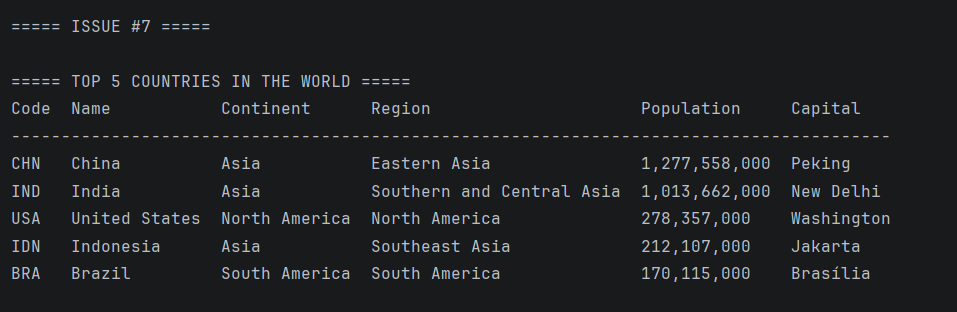
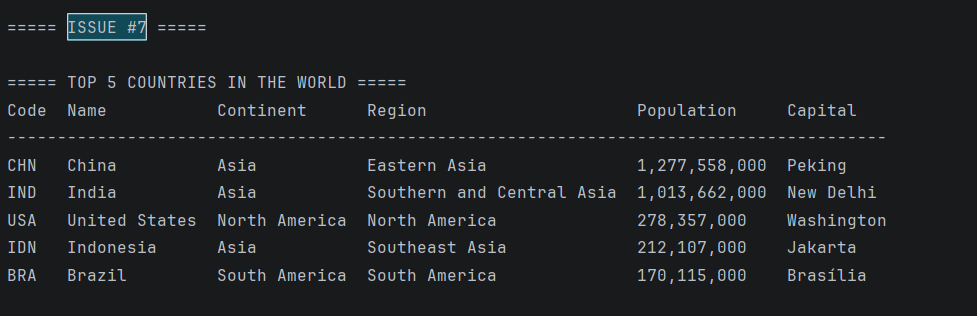
docs: update README and add issue evidence screenshots

diff --git a/README.md b/README.md
@@ -5,245 +5,214 @@
 * License [![LICENSE](https://img.shields.io/github/license/kaungmyatlwin18/Group_11-DevOps.svg?style=flat-square)](https://github.com/kaungmyatlwin18/Group_11-DevOps/blob/master/LICENSE)
 * Release [![Releases](https://img.shields.io/github/release/kaungmyatlwin18/Group_11-DevOps/all.svg?style=flat-square)](https://github.com/kaungmyatlwin18/Group_11-DevOps/releases)
 
+* Unit Testing [![Unit Testing](https://github.com/kaungmyatlwin18/Group_11-DevOps/actions/workflows/unit-tests.yml/badge.svg?branch=develop)](https://github.com/kaungmyatlwin18/Group_11-DevOps/actions/workflows/unit-tests.yml)
+* Integration Testing [![Integration Testing](https://github.com/kaungmyatlwin18/Group_11-DevOps/actions/workflows/integration-tests.yml/badge.svg?branch=develop)](https://github.com/kaungmyatlwin18/Group_11-DevOps/actions/workflows/integration-tests.yml)
+* Code Coverage Workflow [![Code Coverage Workflow](https://github.com/kaungmyatlwin18/Group_11-DevOps/actions/workflows/code-coverage.yml/badge.svg?branch=develop)](https://github.com/kaungmyatlwin18/Group_11-DevOps/actions/workflows/code-coverage.yml)
+
 # Group 11 — DevOps Project Report
 
-**Module:** SET09803 DevOps  
-**Project:** Population Reporting System  
-**Code Review:** 1  
-**Date:** 14 October 2026
+**Module:** SET09803 DevOps
+**Project:** Population Reporting System
+**Code Review:** 2
+**Evidence snapshot:** 25 November 2026 (`develop`, `64d6faf`)
 
 ## 1. Team Members
 
-| Role          | Member          |
-| ------------- | --------------- |
-| Product Owner | Hein Htoo Naing|
-| Scrum Master  | Kaung Myat Lwin |
-| Developer 1   | Htoo Aung Lin   |
-| Developer 2   | Nyan Lin Htet   |
-| Developer 3   | Dana Aung       |
-| Developer 4   | Thet Aung Hein  |
+| Role | Member |
+|---|---|
+| Product Owner | Hein Htoo Naing |
+| Scrum Master | Kaung Myat Lwin |
+| Developer 1 | Htoo Aung Lin |
+| Developer 2 | Nyan Lin Htet |
+| Developer 3 | Dana Aung |
+| Developer 4 | Thet Aung Hein |
 
 ## 2. Technologies Used
 
-| Technology        | Version / Details               | Purpose                                               |
-| ----------------- | ------------------------------- | ----------------------------------------------------- |
-| Java              | JDK 25 (Eclipse Temurin)        | Application development                               |
-| Apache Maven      | Version to confirm              | Building the Java application and running tests       |
-| MySQL             | 8.4                             | World population database                             |
-| MySQL Connector/J | JDBC driver                     | Connecting Java to MySQL                              |
-| Docker            | Docker Desktop / Docker Compose | Running and configuring containers                    |
-| Git               | Version control                 | Managing source code changes                          |
-| GitHub            | Repository hosting              | Issues, branches, pull requests and collaboration     |
-| GitHub Actions    | CI workflow                     | Automated Maven builds, tests and Docker verification |
-| JUnit             | Version to confirm              | Automated testing                                     |
-| IntelliJ IDEA     | 2026.2.2                        | Java development and debugging                        |
+| Technology | Version / Details | Purpose |
+|---|---|---|
+| Java | JDK 25 (Eclipse Temurin) | Application development |
+| Apache Maven | Maven 3.x | Build and test automation |
+| MySQL | 8.4 | World population database |
+| MySQL Connector/J | 26.7.0 | JDBC connectivity |
+| Docker | Docker Desktop / Docker Compose | Containerised application and database |
+| JUnit Jupiter | 5.11.4 | Automated tests |
+| H2 | 2.3.232 | In-memory test database |
+| JaCoCo | 0.8.16 | Code coverage |
+| Git and GitHub | Version control and repository hosting | Issues, branches, pull requests and collaboration |
+| GitHub Actions | CI workflows | Builds, tests, coverage and container verification |
+| IntelliJ IDEA | Java IDE | Development and debugging |
 
 ## 3. Use Case Diagram
 
-<img width="548" height="632" alt="use-case-diagram" src="https://github.com/user-attachments/assets/2a540d11-d768-481a-bdfb-a5fedcde233a" />
+![Project use-case overview](docs/use-case-diagram.png)
 
+The console-based Population Reporting System generates reports using the MySQL World database. Reports cover countries, cities, capitals, population distribution, selected population totals and language statistics. Configurable location and Top N parameters support the relevant reports.
 
-The use case diagram illustrates how a user interacts with the Population Reporting System to generate reports from the MySQL World database.
-
-The system supports reporting on countries, cities, capital cities, populations and language statistics.
-
-Users can select relevant locations, such as continents and regions, and request reports ordered by population. Some reports allow the user to specify a Top N value.
-
-For Code Review 1, our team implemented and verified the first six country reporting requirements.
+The existing overview diagram and [Sprint 1 detailed use cases](docs/use-case-diagram.md) are retained. The detailed use cases cover the six original country reports; their extension to the remaining features is subject to the team's documentation review.
 
 ## 4. Results and Outcomes
 
-### Implementation Progress
+**32 of 32 functional requirements implemented (100%).** All feature issues are closed and their implementation PRs have been merged into `develop` as of the evidence snapshot. This is the development-branch status, not a new production release.
 
-**6 of 32 requirements completed (18.75%).**
+| Category | Implemented | Total |
+|---|---:|---:|
+| Country Reports | 6 | 6 |
+| City Reports | 10 | 10 |
+| Capital City Reports | 6 | 6 |
+| Population Distribution Reports | 3 | 3 |
+| Population Information | 6 | 6 |
+| Language Statistics | 1 | 1 |
+| **Total** | **32** | **32** |
 
-The six completed requirements cover country reporting features. The remaining 26 requirements are planned for future development.
+Each row links to its issue, merged PR and actual console screenshot. Long report screenshots show representative visible rows rather than every result. Figures are from the supplied World database, not current demographic estimates. District totals represent recorded city populations in the selected district.
 
 ### 4.1 Country Reports
 
-| ID | Requirement                                | GitHub Issue | Met? | Output Screenshot |
-| -- | ------------------------------------------ | ------------ | ---- | ----------------- |
-| 1  | All countries in the world by population   | #2           | Yes  | <img width="1448" height="796" alt="issue-02" src="https://github.com/user-attachments/assets/11a26ef7-d82f-4a62-bca7-fddb589a4aae" />|
-| 2  | All countries in a continent by population | #4           | Yes  | <img width="1096" height="760" alt="issue-04" src="https://github.com/user-attachments/assets/1441f53c-38d0-45b9-94e5-82bc24bd64fe" />|
-| 3  | All countries in a region by population    | #6           | Yes  | <img width="787" height="390" alt="issue-06" src="https://github.com/user-attachments/assets/b6bc45e4-cf2e-40e3-a337-5b69f744d03f" /> |
-| 4  | Top N countries in the world               | #7           | Yes  | <img width="957" height="312" alt="issue-07" src="https://github.com/user-attachments/assets/626f8943-ccb4-47bc-95d5-aa35c032373a" /> |
-| 5  | Top N countries in a continent             | #8           | Yes  | <img width="896" height="247" alt="issue-08" src="https://github.com/user-attachments/assets/46d843d6-6d04-4711-be33-91599c4f07fe" /> |
-| 6  | Top N countries in a region                | #9           | Yes  | <img width="847" height="255" alt="issue-09" src="https://github.com/user-attachments/assets/943daaff-1338-4144-a597-ad8fcf9350c1" /> |
+| ID | Requirement | GitHub Issue | Pull Request | Met? | Output Screenshot |
+|---:|---|---|---|---|---|
+| 1 | All countries in the world by population | [#2](https://github.com/kaungmyatlwin18/Group_11-DevOps/issues/2) | [#37](https://github.com/kaungmyatlwin18/Group_11-DevOps/pull/37) | Yes | [<img src="docs/screenshots/issue-02.png" width="320" alt="Issue 2 output" />](docs/screenshots/issue-02.png) |
+| 2 | All countries in a continent by population | [#4](https://github.com/kaungmyatlwin18/Group_11-DevOps/issues/4) | [#37](https://github.com/kaungmyatlwin18/Group_11-DevOps/pull/37) | Yes | [<img src="docs/screenshots/issue-04.png" width="320" alt="Issue 4 output" />](docs/screenshots/issue-04.png) |
+| 3 | All countries in a region by population | [#6](https://github.com/kaungmyatlwin18/Group_11-DevOps/issues/6) | [#38](https://github.com/kaungmyatlwin18/Group_11-DevOps/pull/38) | Yes | [<img src="docs/screenshots/issue-06.png" width="320" alt="Issue 6 output" />](docs/screenshots/issue-06.png) |
+| 4 | Top N countries in the world | [#7](https://github.com/kaungmyatlwin18/Group_11-DevOps/issues/7) | [#41](https://github.com/kaungmyatlwin18/Group_11-DevOps/pull/41) | Yes | [<img src="docs/screenshots/issue-07.png" width="320" alt="Issue 7 output" />](docs/screenshots/issue-07.png) |
+| 5 | Top N countries in a continent | [#8](https://github.com/kaungmyatlwin18/Group_11-DevOps/issues/8) | [#40](https://github.com/kaungmyatlwin18/Group_11-DevOps/pull/40) | Yes | [<img src="docs/screenshots/issue-08.png" width="320" alt="Issue 8 output" />](docs/screenshots/issue-08.png) |
+| 6 | Top N countries in a region | [#9](https://github.com/kaungmyatlwin18/Group_11-DevOps/issues/9) | [#40](https://github.com/kaungmyatlwin18/Group_11-DevOps/pull/40) | Yes | [<img src="docs/screenshots/issue-09.png" width="320" alt="Issue 9 output" />](docs/screenshots/issue-09.png) |
 
 ### 4.2 City Reports
 
-| ID | Requirement                             | Met? | Output Screenshot |
-| -- | --------------------------------------- | ---- | ----------------- |
-| 7  | All cities in the world by population   | No   | —                 |
-| 8  | All cities in a continent by population | No   | —                 |
-| 9  | All cities in a region by population    | No   | —                 |
-| 10 | All cities in a country by population   | No   | —                 |
-| 11 | All cities in a district by population  | No   | —                 |
-| 12 | Top N cities in the world               | No   | —                 |
-| 13 | Top N cities in a continent             | No   | —                 |
-| 14 | Top N cities in a region                | No   | —                 |
-| 15 | Top N cities in a country               | No   | —                 |
-| 16 | Top N cities in a district              | No   | —                 |
+| ID | Requirement | GitHub Issue | Pull Request | Met? | Output Screenshot |
+|---:|---|---|---|---|---|
+| 7 | All cities in the world by population | [#10](https://github.com/kaungmyatlwin18/Group_11-DevOps/issues/10) | [#62](https://github.com/kaungmyatlwin18/Group_11-DevOps/pull/62) | Yes | [<img src="docs/screenshots/issue-10.png" width="320" alt="Issue 10 output" />](docs/screenshots/issue-10.png) |
+| 8 | All cities in a continent by population | [#11](https://github.com/kaungmyatlwin18/Group_11-DevOps/issues/11) | [#63](https://github.com/kaungmyatlwin18/Group_11-DevOps/pull/63) | Yes | [<img src="docs/screenshots/issue-11.png" width="320" alt="Issue 11 output" />](docs/screenshots/issue-11.png) |
+| 9 | All cities in a region by population | [#12](https://github.com/kaungmyatlwin18/Group_11-DevOps/issues/12) | [#59](https://github.com/kaungmyatlwin18/Group_11-DevOps/pull/59) | Yes | [<img src="docs/screenshots/issue-12.png" width="320" alt="Issue 12 output" />](docs/screenshots/issue-12.png) |
+| 10 | All cities in a country by population | [#13](https://github.com/kaungmyatlwin18/Group_11-DevOps/issues/13) | [#60](https://github.com/kaungmyatlwin18/Group_11-DevOps/pull/60) | Yes | [<img src="docs/screenshots/issue-13.png" width="320" alt="Issue 13 output" />](docs/screenshots/issue-13.png) |
+| 11 | All cities in a district by population | [#14](https://github.com/kaungmyatlwin18/Group_11-DevOps/issues/14) | [#58](https://github.com/kaungmyatlwin18/Group_11-DevOps/pull/58) | Yes | [<img src="docs/screenshots/issue-14.png" width="320" alt="Issue 14 output" />](docs/screenshots/issue-14.png) |
+| 12 | Top N cities in the world | [#15](https://github.com/kaungmyatlwin18/Group_11-DevOps/issues/15) | [#64](https://github.com/kaungmyatlwin18/Group_11-DevOps/pull/64) | Yes | [<img src="docs/screenshots/issue-15.png" width="320" alt="Issue 15 output" />](docs/screenshots/issue-15.png) |
+| 13 | Top N cities in a continent | [#16](https://github.com/kaungmyatlwin18/Group_11-DevOps/issues/16) | [#65](https://github.com/kaungmyatlwin18/Group_11-DevOps/pull/65) | Yes | [<img src="docs/screenshots/issue-16.png" width="320" alt="Issue 16 output" />](docs/screenshots/issue-16.png) |
+| 14 | Top N cities in a region | [#17](https://github.com/kaungmyatlwin18/Group_11-DevOps/issues/17) | [#66](https://github.com/kaungmyatlwin18/Group_11-DevOps/pull/66) | Yes | [<img src="docs/screenshots/issue-17.png" width="320" alt="Issue 17 output" />](docs/screenshots/issue-17.png) |
+| 15 | Top N cities in a country | [#18](https://github.com/kaungmyatlwin18/Group_11-DevOps/issues/18) | [#67](https://github.com/kaungmyatlwin18/Group_11-DevOps/pull/67) | Yes | [<img src="docs/screenshots/issue-18.png" width="320" alt="Issue 18 output" />](docs/screenshots/issue-18.png) |
+| 16 | Top N cities in a district | [#19](https://github.com/kaungmyatlwin18/Group_11-DevOps/issues/19) | [#68](https://github.com/kaungmyatlwin18/Group_11-DevOps/pull/68) | Yes | [<img src="docs/screenshots/issue-19.png" width="320" alt="Issue 19 output" />](docs/screenshots/issue-19.png) |
 
 ### 4.3 Capital City Reports
 
-| ID | Requirement                         | Met? | Output Screenshot |
-| -- | ----------------------------------- | ---- | ----------------- |
-| 17 | All capital cities in the world     | No   | —                 |
-| 18 | All capital cities in a continent   | No   | —                 |
-| 19 | All capital cities in a region      | No   | —                 |
-| 20 | Top N capital cities in the world   | No   | —                 |
-| 21 | Top N capital cities in a continent | No   | —                 |
-| 22 | Top N capital cities in a region    | No   | —                 |
+| ID | Requirement | GitHub Issue | Pull Request | Met? | Output Screenshot |
+|---:|---|---|---|---|---|
+| 17 | All capital cities in the world by population | [#20](https://github.com/kaungmyatlwin18/Group_11-DevOps/issues/20) | [#69](https://github.com/kaungmyatlwin18/Group_11-DevOps/pull/69) | Yes | [<img src="docs/screenshots/issue-20.png" width="320" alt="Issue 20 output" />](docs/screenshots/issue-20.png) |
+| 18 | All capital cities in a continent by population | [#21](https://github.com/kaungmyatlwin18/Group_11-DevOps/issues/21) | [#70](https://github.com/kaungmyatlwin18/Group_11-DevOps/pull/70) | Yes | [<img src="docs/screenshots/issue-21.png" width="320" alt="Issue 21 output" />](docs/screenshots/issue-21.png) |
+| 19 | All capital cities in a region by population | [#22](https://github.com/kaungmyatlwin18/Group_11-DevOps/issues/22) | [#71](https://github.com/kaungmyatlwin18/Group_11-DevOps/pull/71) | Yes | [<img src="docs/screenshots/issue-22.png" width="320" alt="Issue 22 output" />](docs/screenshots/issue-22.png) |
+| 20 | Top N capital cities in the world | [#23](https://github.com/kaungmyatlwin18/Group_11-DevOps/issues/23) | [#72](https://github.com/kaungmyatlwin18/Group_11-DevOps/pull/72) | Yes | [<img src="docs/screenshots/issue-23.png" width="320" alt="Issue 23 output" />](docs/screenshots/issue-23.png) |
+| 21 | Top N capital cities in a continent | [#24](https://github.com/kaungmyatlwin18/Group_11-DevOps/issues/24) | [#82](https://github.com/kaungmyatlwin18/Group_11-DevOps/pull/82) | Yes | [<img src="docs/screenshots/issue-24.png" width="320" alt="Issue 24 output" />](docs/screenshots/issue-24.png) |
+| 22 | Top N capital cities in a region | [#25](https://github.com/kaungmyatlwin18/Group_11-DevOps/issues/25) | [#83](https://github.com/kaungmyatlwin18/Group_11-DevOps/pull/83) | Yes | [<img src="docs/screenshots/issue-25.png" width="320" alt="Issue 25 output" />](docs/screenshots/issue-25.png) |
 
 ### 4.4 Population Distribution Reports
 
-| ID | Requirement                                                   | Met? | Output Screenshot |
-| -- | ------------------------------------------------------------- | ---- | ----------------- |
-| 23 | Population living and not living in cities for each continent | No   | —                 |
-| 24 | Population living and not living in cities for each region    | No   | —                 |
-| 25 | Population living and not living in cities for each country   | No   | —                 |
+| ID | Requirement | GitHub Issue | Pull Request | Met? | Output Screenshot |
+|---:|---|---|---|---|---|
+| 23 | Population living and not living in cities for each continent, including percentages | [#26](https://github.com/kaungmyatlwin18/Group_11-DevOps/issues/26) | [#73](https://github.com/kaungmyatlwin18/Group_11-DevOps/pull/73) | Yes | [<img src="docs/screenshots/issue-26.png" width="320" alt="Issue 26 output" />](docs/screenshots/issue-26.png) |
+| 24 | Population living and not living in cities for each region, including percentages | [#27](https://github.com/kaungmyatlwin18/Group_11-DevOps/issues/27) | [#74](https://github.com/kaungmyatlwin18/Group_11-DevOps/pull/74) | Yes | [<img src="docs/screenshots/issue-27.png" width="320" alt="Issue 27 output" />](docs/screenshots/issue-27.png) |
+| 25 | Population living and not living in cities for each country, including percentages | [#28](https://github.com/kaungmyatlwin18/Group_11-DevOps/issues/28) | [#75](https://github.com/kaungmyatlwin18/Group_11-DevOps/pull/75) | Yes | [<img src="docs/screenshots/issue-28.png" width="320" alt="Issue 28 output" />](docs/screenshots/issue-28.png) |
 
 ### 4.5 Population Information
 
-| ID | Requirement               | Met? | Output Screenshot |
-| -- | ------------------------- | ---- | ----------------- |
-| 26 | Population of the world   | No   | —                 |
-| 27 | Population of a continent | No   | —                 |
-| 28 | Population of a region    | No   | —                 |
-| 29 | Population of a country   | No   | —                 |
-| 30 | Population of a district  | No   | —                 |
-| 31 | Population of a city      | No   | —                 |
+| ID | Requirement | GitHub Issue | Pull Request | Met? | Output Screenshot |
+|---:|---|---|---|---|---|
+| 26 | Population of the world | [#29](https://github.com/kaungmyatlwin18/Group_11-DevOps/issues/29) | [#88](https://github.com/kaungmyatlwin18/Group_11-DevOps/pull/88) | Yes | [<img src="docs/screenshots/issue-29.png" width="320" alt="Issue 29 output" />](docs/screenshots/issue-29.png) |
+| 27 | Population of a selected continent | [#30](https://github.com/kaungmyatlwin18/Group_11-DevOps/issues/30) | [#89](https://github.com/kaungmyatlwin18/Group_11-DevOps/pull/89) | Yes | [<img src="docs/screenshots/issue-30.png" width="320" alt="Issue 30 output" />](docs/screenshots/issue-30.png) |
+| 28 | Population of a selected region | [#31](https://github.com/kaungmyatlwin18/Group_11-DevOps/issues/31) | [#90](https://github.com/kaungmyatlwin18/Group_11-DevOps/pull/90) | Yes | [<img src="docs/screenshots/issue-31.png" width="320" alt="Issue 31 output" />](docs/screenshots/issue-31.png) |
+| 29 | Population of a selected country | [#32](https://github.com/kaungmyatlwin18/Group_11-DevOps/issues/32) | [#91](https://github.com/kaungmyatlwin18/Group_11-DevOps/pull/91) | Yes | [<img src="docs/screenshots/issue-32.png" width="320" alt="Issue 32 output" />](docs/screenshots/issue-32.png) |
+| 30 | Population of a selected district | [#33](https://github.com/kaungmyatlwin18/Group_11-DevOps/issues/33) | [#86](https://github.com/kaungmyatlwin18/Group_11-DevOps/pull/86) | Yes | [<img src="docs/screenshots/issue-33.png" width="320" alt="Issue 33 output" />](docs/screenshots/issue-33.png) |
+| 31 | Population of a selected city | [#34](https://github.com/kaungmyatlwin18/Group_11-DevOps/issues/34) | [#84](https://github.com/kaungmyatlwin18/Group_11-DevOps/pull/84) | Yes | [<img src="docs/screenshots/issue-34.png" width="320" alt="Issue 34 output" />](docs/screenshots/issue-34.png) |
 
 ### 4.6 Language Statistics
 
-| ID | Requirement                                                                            | Met? | Output Screenshot |
-| -- | -------------------------------------------------------------------------------------- | ---- | ----------------- |
-| 32 | Population speaking Chinese, English, Hindi, Spanish and Arabic, including percentages | No   | —                 |
+| ID | Requirement | GitHub Issue | Pull Request | Met? | Output Screenshot |
+|---:|---|---|---|---|---|
+| 32 | Population speaking Chinese, English, Hindi, Spanish and Arabic, including percentages of world population; sorted by number of speakers | [#35](https://github.com/kaungmyatlwin18/Group_11-DevOps/issues/35) | [#85](https://github.com/kaungmyatlwin18/Group_11-DevOps/pull/85) | Yes | [<img src="docs/screenshots/issue-35.png" width="320" alt="Issue 35 output" />](docs/screenshots/issue-35.png) |
 
 ## 5. Completed Feature Evidence
 
-### Requirement 1 — All Countries in the World
+The screenshots in Section 4 demonstrate all 32 report outputs. Issues #2, #4 and #6 retain their Code Review 1 screenshots; Issues #7–#35 use the refreshed screenshots supplied for Code Review 2. Full-size evidence is available in [docs/screenshots](docs/screenshots/).
 
-This report displays all countries from the World database in descending order of population. It includes the country code, name, continent, region, population and capital.
-
-**[Insert Issue #2 output screenshot]**
-
-### Requirement 2 — Countries in a Continent
-
-This report displays the countries in a selected continent, such as Asia, ordered from the largest population to the smallest.
-
-**[Insert Issue #4 output screenshot]**
-
-### Requirement 3 — Countries in a Region
-
-This report displays all countries in a selected region, such as Eastern Asia, sorted by population.
-
-**[Insert Issue #6 output screenshot]**
-
-### Requirement 4 — Top N Countries in the World
-
-This report allows a configurable N value and displays the N most populated countries in the world. For testing, the system was configured to display the Top 5 countries.
-
-**[Insert Issue #7 output screenshot]**
-
-### Requirement 5 — Top N Countries in a Continent
-
-This report displays the N most populated countries in a selected continent. The current demonstration shows the Top 3 countries in Asia.
-
-**[Insert Issue #8 output screenshot]**
-
-### Requirement 6 — Top N Countries in a Region
-
-This report displays the N most populated countries in a selected region. The current demonstration shows the Top 3 countries in Eastern Asia.
-
-**[Insert Issue #9 output screenshot]**
+Since Code Review 1, the team has added the city and capital reports, population distribution reports, individual population information and language statistics. Supporting work includes automated unit and integration testing, JaCoCo coverage and a bug reporting system. Changes are traceable through the linked feature PRs.
 
 ## 6. Testing and Outcome
 
-For Code Review 1, Group 11 successfully implemented six country reporting requirements.
+Verification snapshot: `64d6faf` on `develop`, 25 November 2026.
 
-The integrated application connected to the MySQL World database and generated the required report outputs.
+| Workflow | Total tests | Passed | Failures | Errors | Skipped | Status |
+|---|---:|---:|---:|---:|---:|---|
+| Unit and H2-backed tests | 433 | 430 | 0 | 0 | 3 | Passed |
+| Full suite with MySQL integration | 433 | 433 | 0 | 0 | 0 | Passed |
+| JaCoCo coverage | 433 | 430 | 0 | 0 | 3 | Passed |
+| Maven and Docker CI | — | — | — | — | — | Passed |
 
-Verification included:
+The three MySQL integration tests are intentionally skipped when database credentials are unset. The separate MySQL integration workflow executes all three successfully. These suites overlap; the test counts must not be added together. The local Maven test run completed with `BUILD SUCCESS` in 7.890 seconds. The final four features added 64 passing tests.
 
-- Successful Maven build.
-- 21 passing JUnit tests.
-- Successful GitHub Actions checks.
-- Successful execution of all six reports.
-- Application finished with exit code 0.
+| GitHub Actions evidence | Result |
+|---|---|
+| [Unit Testing](https://github.com/kaungmyatlwin18/Group_11-DevOps/actions/runs/45585708452) | Success |
+| [MySQL Integration Testing](https://github.com/kaungmyatlwin18/Group_11-DevOps/actions/runs/45585707971) | Success |
+| [Code Coverage](https://github.com/kaungmyatlwin18/Group_11-DevOps/actions/runs/45585707900) | Success |
+| [Maven and Docker CI](https://github.com/kaungmyatlwin18/Group_11-DevOps/actions/runs/45585707758) | Success |
 
-The remaining requirements will be implemented during subsequent development work.
+Supporting PRs: [integration testing](https://github.com/kaungmyatlwin18/Group_11-DevOps/pull/61), [unit testing #78](https://github.com/kaungmyatlwin18/Group_11-DevOps/pull/78), [coverage #79](https://github.com/kaungmyatlwin18/Group_11-DevOps/pull/79) and [coverage action maintenance #87](https://github.com/kaungmyatlwin18/Group_11-DevOps/pull/87).
 
-## 7. Conclusion
-
-Group 11 has established the initial DevOps development workflow and implemented six of the 32 population reporting requirements.
-
-The completed features demonstrate successful database integration, population-based sorting, configurable Top N reporting, and automated testing.
-
-Further development will focus on completing the remaining city, capital city, population and language reporting requirements.
-
-## 8. Individual Contribution Percentages
-| Matric            | Code Review 1                   | Code Review 2                                         |
-| ----------------- | ------------------------------- | ----------------------------------------------------- |
-| 40841053          | 17                              | -                                                     |
-| 40841054          | 17                              | -                                                     |
-| 40841060          | 17                              | -                                                     |
-| 40841062          | 17                              | -                                                     |
-| 40841068          | 15                              | -                                                     |
-| 40840490          | 17                              | -                                                     |
-| Total             | 100                             | -                                                     |
-
-## 9. Automated Test Coverage (JaCoCo)
-
-JaCoCo measures the Java production code exercised by the automated tests. The
-coverage baseline is based on features implemented at the time of each run.
-No application-class exclusions or minimum coverage percentage are configured.
-
-### Generate the report locally (Windows PowerShell)
-
-From the repository root, with JDK 25 and Maven installed:
+Run unit and H2-backed tests from the repository root in Windows PowerShell:
 
 ```powershell
 Remove-Item Env:DB_PASSWORD -ErrorAction SilentlyContinue
-mvn clean verify
+mvn -B clean test
 ```
 
-The command runs the JUnit suite, including H2 in-memory report tests, and
-creates the coverage report during Maven's `verify` phase. With `DB_PASSWORD`
-unset, the three real MySQL integration tests are skipped; those tests run
-separately in the existing Group 11 Integration Testing workflow. MySQL and
-Docker are not required for this coverage run.
+The Maven/Docker CI workflow verifies application build and execution with Docker Compose. The JaCoCo workflow's action versions were upgraded through PR #87; this does not claim that deprecation warnings in other workflows were removed.
 
-Open the HTML report:
+## 7. Conclusion
+
+All 32 functional requirements are implemented and merged into `develop`. All four CI workflows passed at the verified snapshot. The test suite has zero failures and zero errors; the full integration run passed all 433 tests. The final coverage figures and screenshots are recorded below. The final release and Code Review 2 contribution agreement remain separate activities.
+
+## 8. Individual Contribution Percentages
+
+| Matric | Code Review 1 | Code Review 2 |
+|---|---:|---:|
+| 40841053 | 17% | Pending agreement |
+| 40841054 | 17% | Pending agreement |
+| 40841060 | 17% | Pending agreement |
+| 40841062 | 17% | Pending agreement |
+| 40841068 | 15% | Pending agreement |
+| 40840490 | 17% | Pending agreement |
+| **Total** | **100%** | **Pending agreement** |
+
+Code Review 1 percentages are retained. Code Review 2 percentages must be agreed by the team and total 100% before final submission.
+
+## 9. Automated Test Coverage (JaCoCo)
+
+Final development snapshot: `64d6faf`, 25 November 2026. JaCoCo measures production code exercised by unit and H2-backed tests.
+
+| Metric | Covered | Total | Coverage |
+|---|---:|---:|---:|
+| Instruction | 5,411 | 5,632 | 96.08% |
+| Line | 1,133 | 1,191 | 95.13% |
+| Branch | 420 | 510 | 82.35% |
+
+Line and branch counts match the successful GitHub coverage run. Instruction counts come from the local report. The HTML report displays rounded percentages. No application-class exclusions or minimum coverage threshold are configured. Untested branches remain, particularly in the core application and population report packages.
+
+![Final local JaCoCo report](docs/screenshots/jacoco-final-coverage.png)
+
+### Generate the report locally (Windows PowerShell)
 
 ```powershell
+Remove-Item Env:DB_PASSWORD -ErrorAction SilentlyContinue
+mvn -B clean verify
 Start-Process (Resolve-Path "target/site/jacoco/index.html")
 ```
 
-The full report directory is `target/site/jacoco/`, including `index.html`,
-`jacoco.xml` and `jacoco.csv`. Keep the whole directory together to preserve
-links and styles. Generated reports belong in the build output, not in Git.
+The full report is generated under `target/site/jacoco/`, including `index.html`, `jacoco.xml` and `jacoco.csv`. Generated build output is not committed to Git. Download the `group11-jacoco-coverage` artifact from the [successful coverage run](https://github.com/kaungmyatlwin18/Group_11-DevOps/actions/runs/45585707900), extract it and open `index.html`. Use missed lines and branches to guide future tests. Coverage does not replace MySQL integration or Docker verification.
 
-### Review measured coverage
+## 10. GitHub Bug Reporting System
 
-- Line coverage measures which executable source lines were exercised.
-- Branch coverage measures which outcomes of conditional decisions were exercised.
-- Open the HTML report and inspect low-coverage packages, classes and methods.
-  Use highlighted missed lines and branches to identify useful additional tests.
-- Record the actual line and branch percentages and any gaps in the pull request.
-  Passing tests do not by themselves guarantee high code coverage.
-- Extend tests and measure coverage again as remaining report features are merged.
+The bug reporting template and resolution documentation were added through [Issue #80](https://github.com/kaungmyatlwin18/Group_11-DevOps/issues/80) and [PR #81](https://github.com/kaungmyatlwin18/Group_11-DevOps/pull/81).
 
-### Download the report from GitHub Actions
+- [Bug report template](.github/ISSUE_TEMPLATE/bug_report.md): description, reproduction steps, expected and actual behaviour, environment, severity and evidence.
+- [Bug reporting process](docs/bug-reporting.md): prioritisation, assignment, fix branch, regression testing, PR review and closure.
 
-Open the repository's **Actions** tab and select **Group 11 Code Coverage**.
-Open a successful run for the relevant branch or pull request. The job summary
-shows measured line and branch coverage. Download the
-`group11-jacoco-coverage` artifact, extract the ZIP and open `index.html` in
-its extracted directory. The workflow runs on pushes to `develop` and
-`test/code-coverage`, and on pull requests targeting `develop`.
-
-The existing independent unit testing, MySQL integration testing, and Maven
-and Docker CI workflows remain separate. Coverage reporting does not replace
-those checks.
+Severity levels are Critical, High, Medium and Low. Only genuine defects should be recorded as bugs. The documented process uses `fix/issue-N-short-description` branches and reviewed pull requests targeting `develop`.
